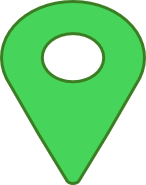
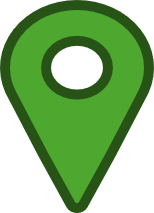
fix: marker 색상 구별 적용

diff --git a/dsmap/src/main/resources/static/js/mainjs.js b/dsmap/src/main/resources/static/js/mainjs.js
@@ -53,17 +53,19 @@ export function fetchDataAndPlotMarkers() {
                 dataArray = [data];
             }
 
-
+            console.log(dataArray);
 
           var x = localStorage.getItem('x');
           var y = localStorage.getItem('y');
 
-          var imageSrc = 'http://localhost:8080/img/green', // 마커이미지의 주소입니다
-              imageSize = new kakao.maps.Size(28, 32), // 마커이미지의 크기입니다
-              imageOption = {offset: new kakao.maps.Point(27, 69)}; // 마커이미지의 옵션입니다. 마커의 좌표와 일치시킬 이미지 안에서의 좌표를 설정합니다.
+          var imageSrc = 'http://localhost:8080/img/red', // 마커이미지의 주소입니다
+              imageSize = new kakao.maps.Size(28, 36), // 마커이미지의 크기입니다
+              imageOption = {offset: new kakao.maps.Point(5, 1)}; // 마커이미지의 옵션입니다. 마커의 좌표와 일치시킬 이미지 안에서의 좌표를 설정합니다.
 
           // 마커의 이미지정보를 가지고 있는 마커이미지를 생성합니다
-          var markerImage = new kakao.maps.MarkerImage(imageSrc, imageSize, imageOption);
+          var markerImageGreen = new kakao.maps.MarkerImage('http://localhost:8080/img/green', imageSize, imageOption);
+          var markerImageYellow = new kakao.maps.MarkerImage('http://localhost:8080/img/yellow', imageSize, imageOption);
+          var markerImageRed = new kakao.maps.MarkerImage('http://localhost:8080/img/red', imageSize, imageOption);
 
 
           if (x !== null && y !== null) {
@@ -78,6 +80,17 @@ export function fetchDataAndPlotMarkers() {
 
             // JSON 데이터를 받아와서 마커를 생성하고 클러스터에 추가
             dataArray.forEach(item => {
+
+                var markerImage = null;
+                if(item.message_num == 1){
+                    markerImage = markerImageGreen;
+                }
+                else if(item.message_num == 2){
+                    markerImage = markerImageYellow;
+                }else{
+                    markerImage = markerImageRed;
+                }
+
                 var markerPosition = new kakao.maps.LatLng(parseFloat(item.x), parseFloat(item.y));
                 var marker = new kakao.maps.Marker({
                     map: map,
